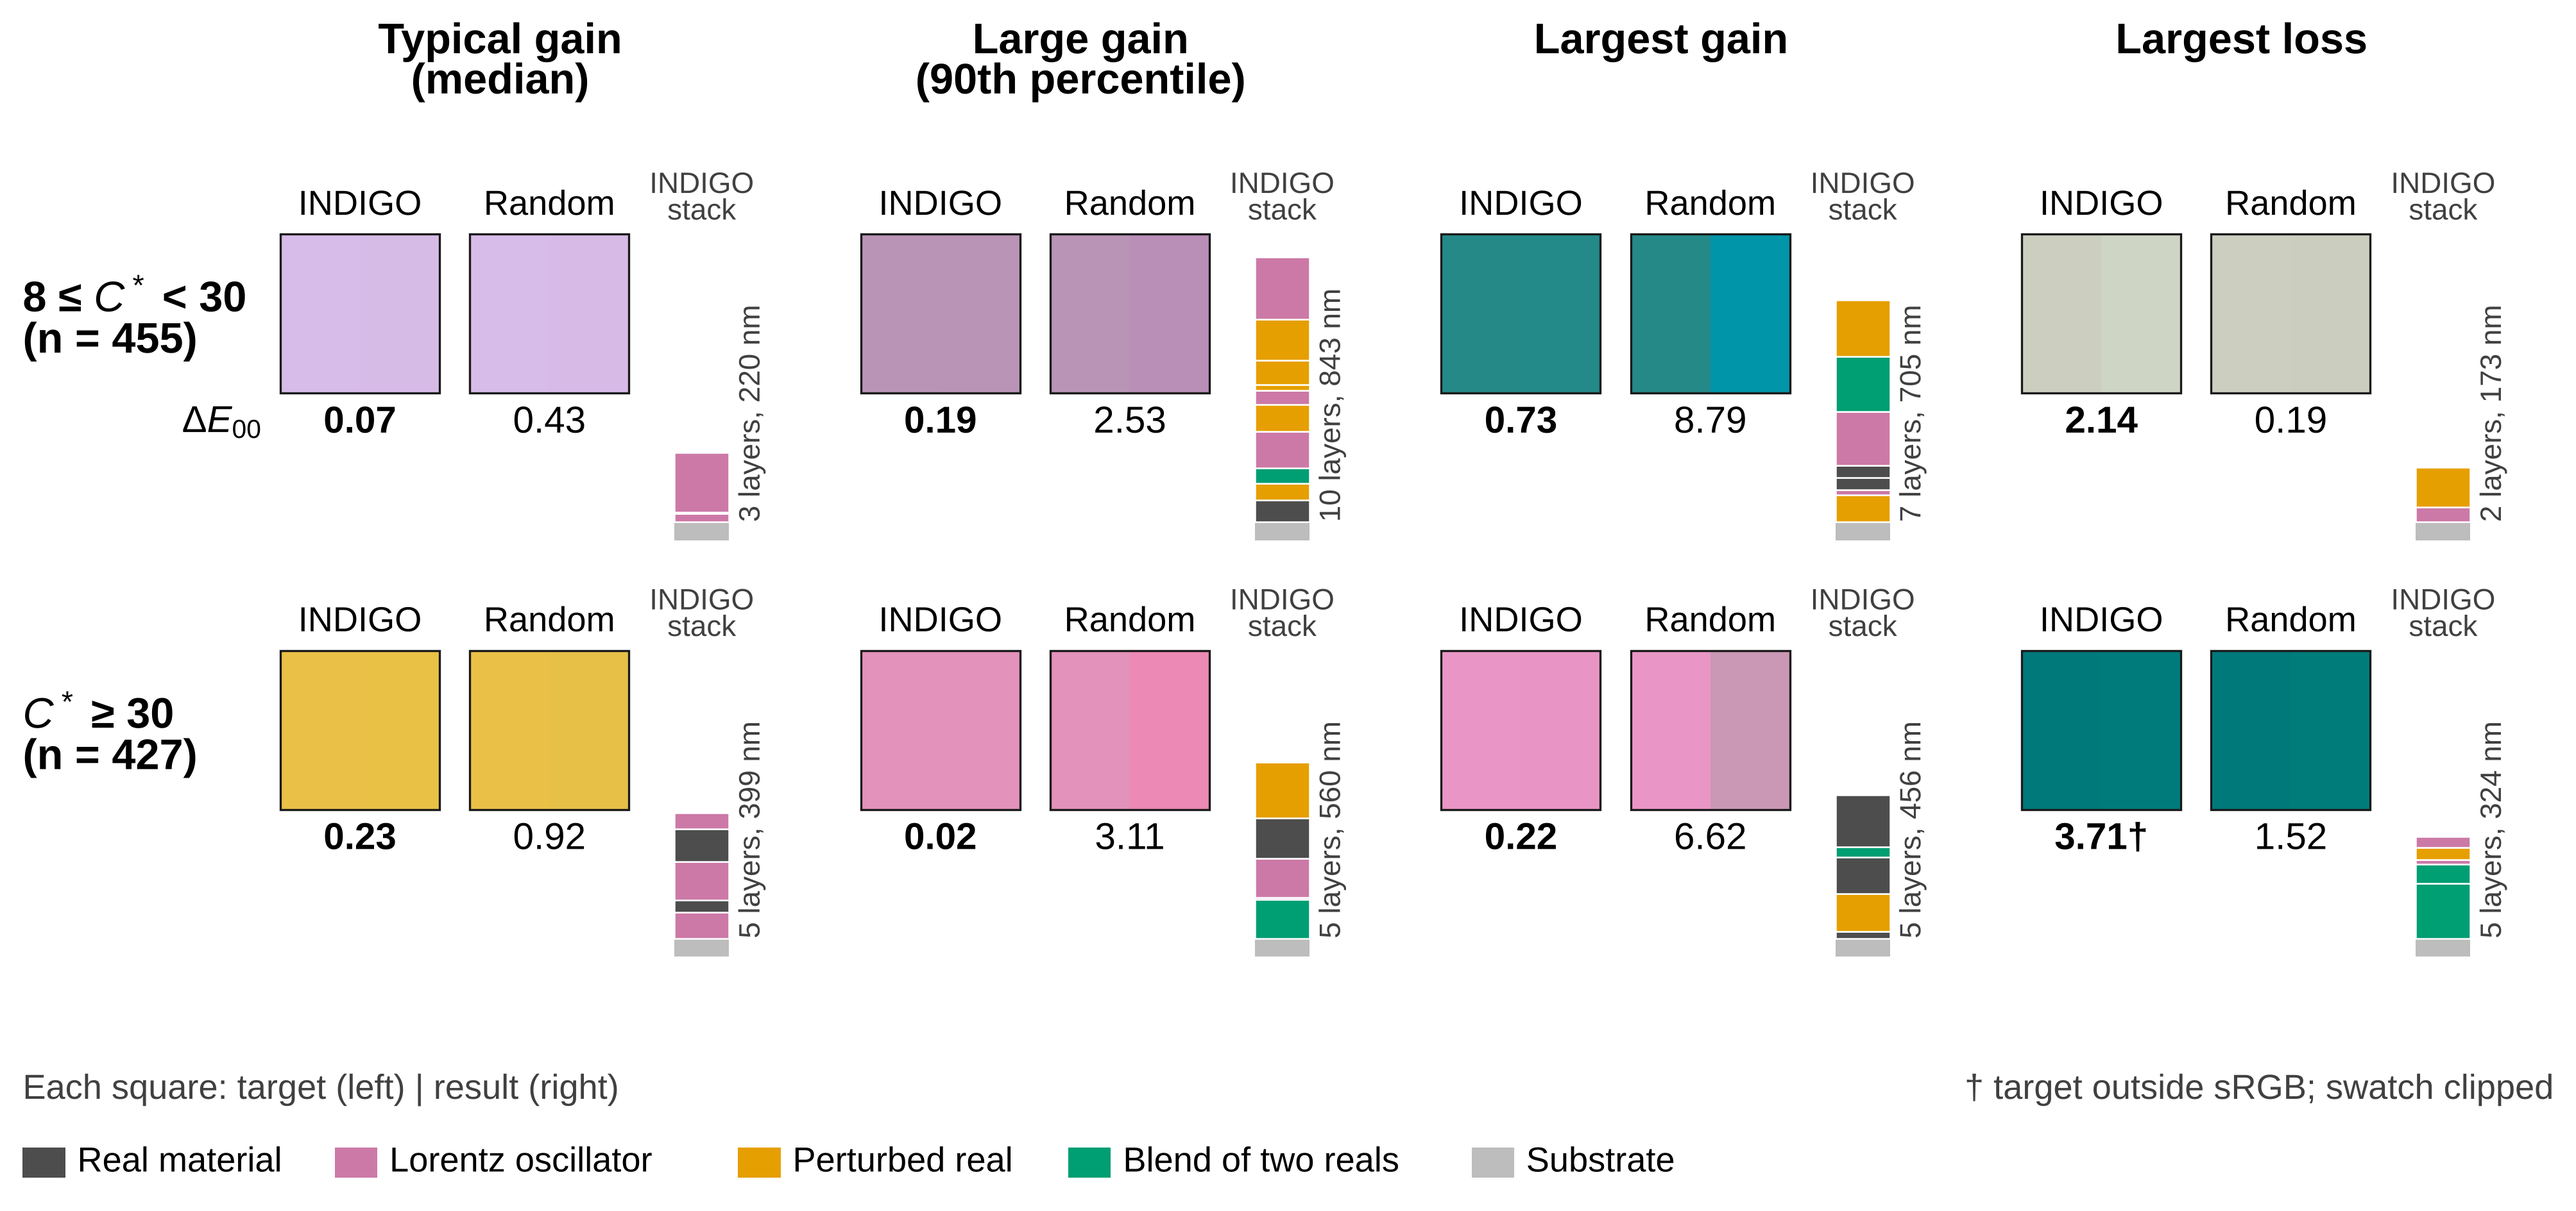
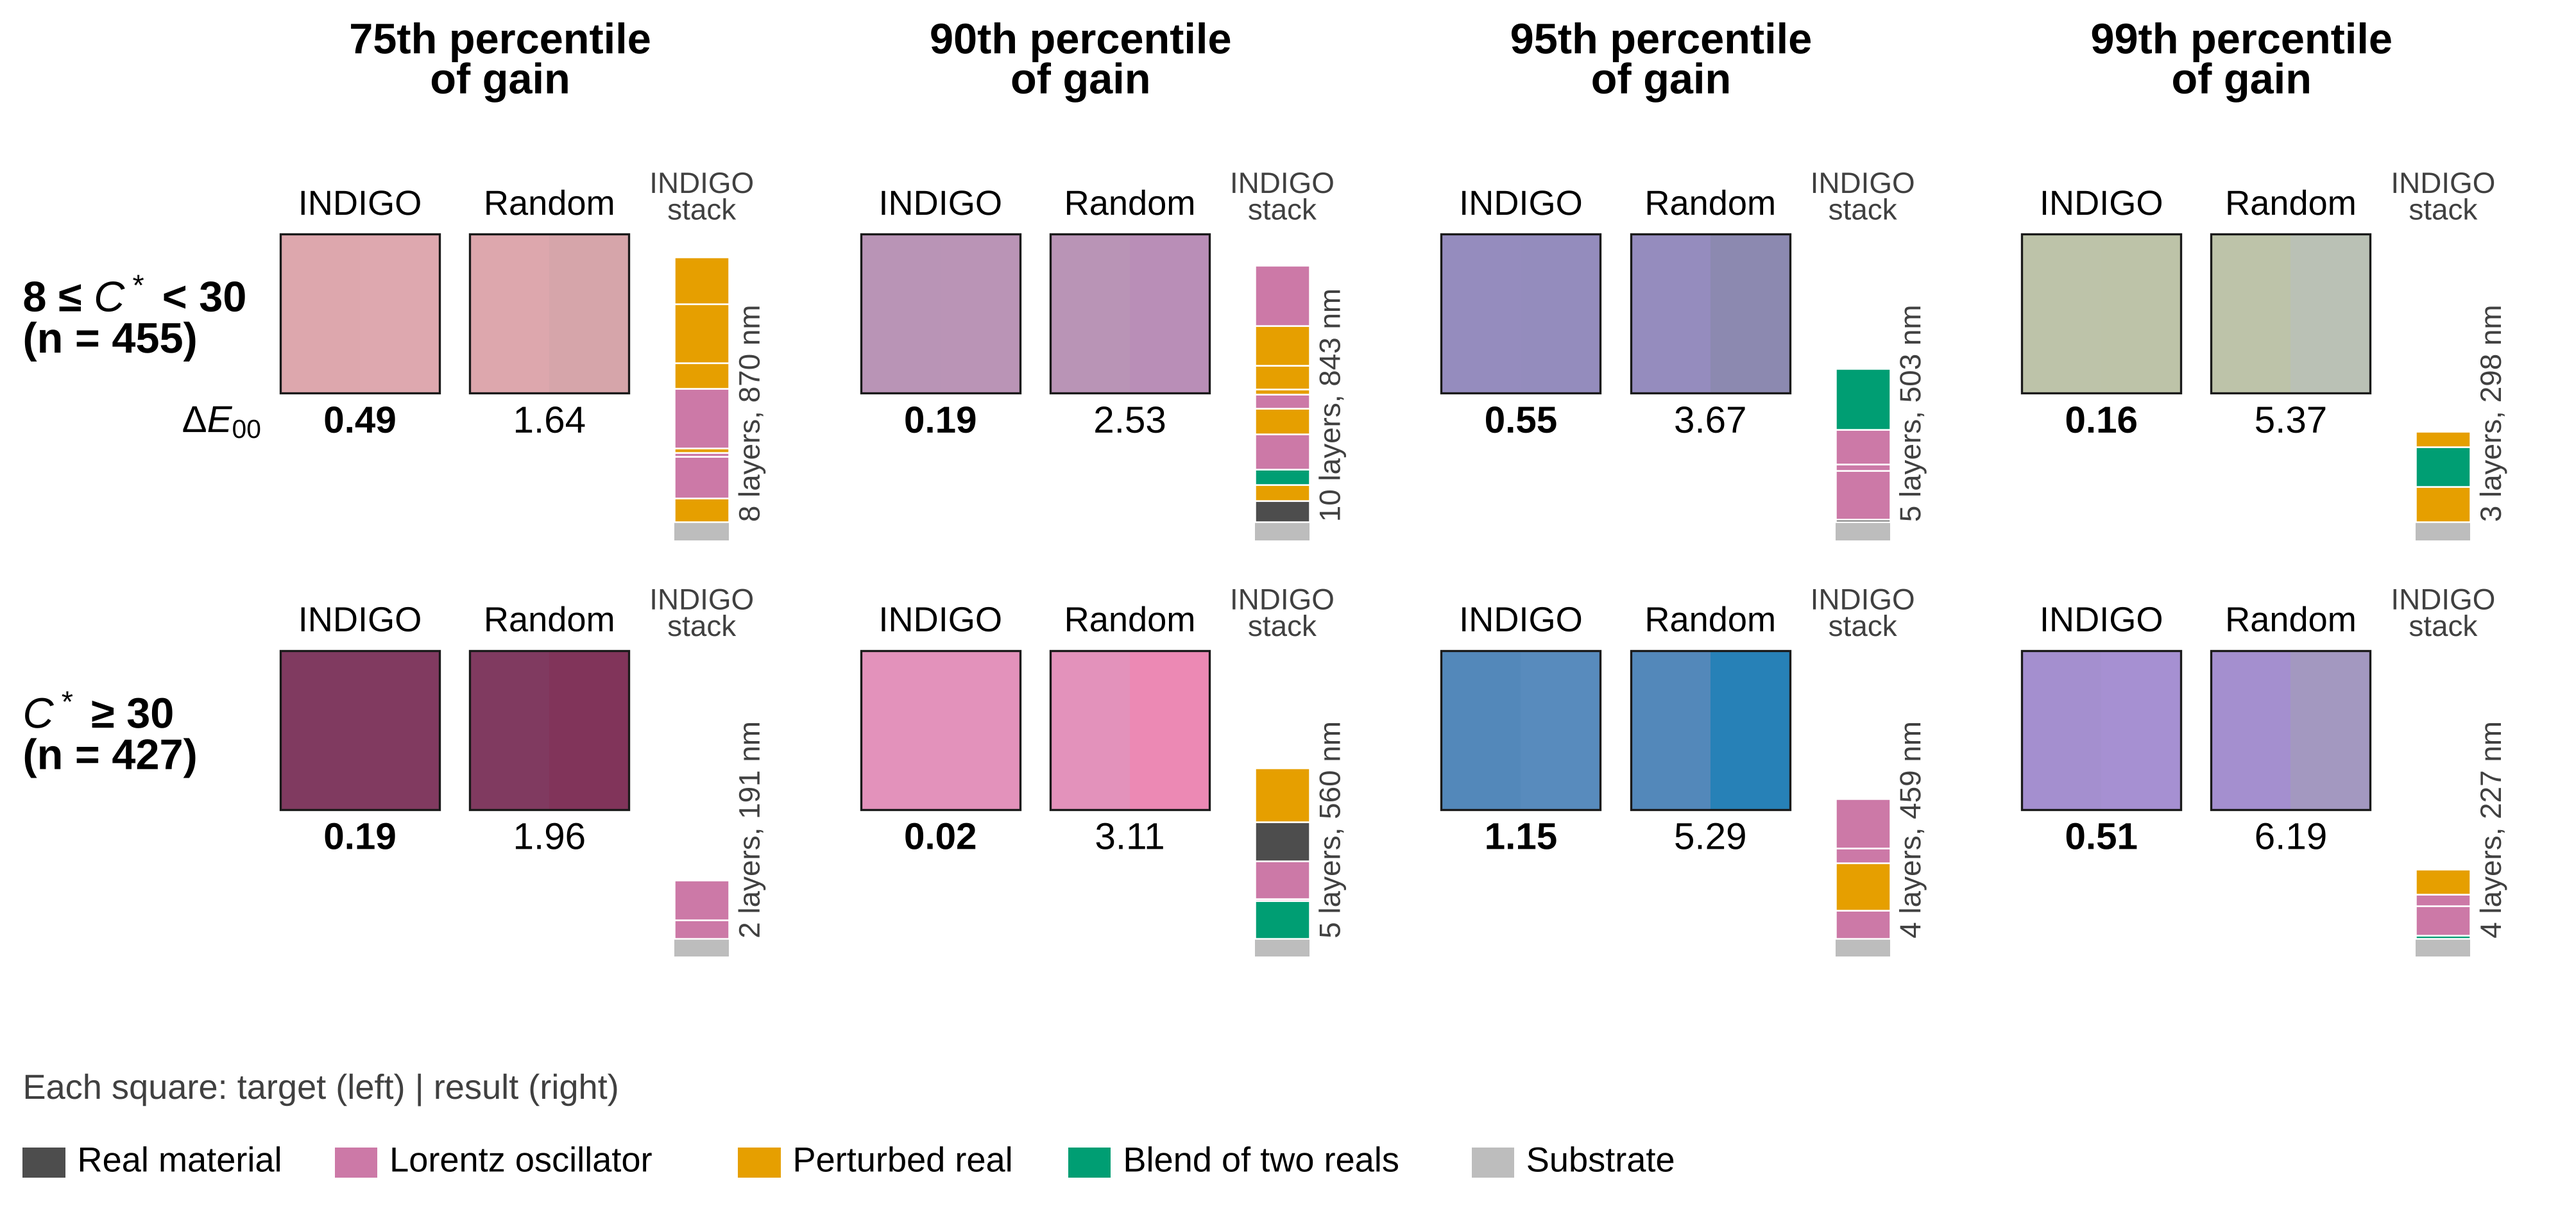
Fig 6: columns at the 75th, 90th, 95th, 99th percentile of gain
Claude-Session: https://claude.ai/code/session_01XG1CYUQ4Nn2RYcqixvqBTY

diff --git a/scripts/paper_figures/fig6_examples.py b/scripts/paper_figures/fig6_examples.py
@@ -6,10 +6,8 @@ and the target is a physical color (L* in [0, 100], C* <= 150; 10 of the
 1000 headline rows are not, see Fig. 2). For each of the two chromatic
 buckets (8 <= C* < 30 and C* >= 30), compute per target the gain
 g = DeltaE00(random) - DeltaE00(INDIGO), same row, same pool, same budget,
-and take the target whose g is closest to the median, the 90th percentile,
-the maximum (largest gain) and the minimum (largest loss: where random
-proposals did best relative to INDIGO). The last column is there so the
-figure shows the other side too.
+and take the target whose g is closest to each of GAIN_PERCENTILES
+(75th, 90th, 95th, 99th) of g in that bucket.
 
 Each example: two split swatches, target on the left half and the returned
 stack's color on the right, for INDIGO and for random proposals, each run's
@@ -29,8 +27,8 @@ from matplotlib.patches import Rectangle
 import _style as S
 import _runs as R
 
-COLUMNS = (("median", "Typical gain\n(median)"), ("p90", "Large gain\n(90th percentile)"),
-           ("max", "Largest gain"), ("min", "Largest loss"))
+GAIN_PERCENTILES = (75, 90, 95, 99)
+COLUMNS = tuple((p, f"{p}th percentile\nof gain") for p in GAIN_PERCENTILES)
 ROW_BUCKETS = ("8<=C<30", "C>=30")
 MODEL, BASE = "INDIGO", "random"
 TYPE_COL = {"real": "#4D4D4D", "lorentz": S.OI["purple"], "perturb": S.OI["orange"],
@@ -79,10 +77,8 @@ def pick(dm, db):
         ii = np.where((dm["bucket"] == b) & np.isfinite(gain) & phys)[0]
         g = gain[ii]
         pools[b] = len(ii)
-        targets = {"median": np.median(g), "p90": np.percentile(g, 90),
-                   "max": g.max(), "min": g.min()}
-        for k, v in targets.items():
-            out[(b, k)] = int(ii[np.argmin(np.abs(g - v))])
+        for p in GAIN_PERCENTILES:
+            out[(b, p)] = int(ii[np.argmin(np.abs(g - np.percentile(g, p)))])
     return out, pools
 
 
@@ -155,7 +151,7 @@ def main():
             tot = sum(L["thickness_nm"] for L in layers)
             ax.text(sx + sww + 0.06, sy, LABELS["layers"].format(n=len(layers), t=tot),
                     rotation=90, ha="left", va="bottom", fontsize=S.SMALL_PT - 1.5, color="#404040")
-            notes.append(f"{b} {ck}: tier {dm['tier'][i]} row {dm['idx'][i]} "
+            notes.append(f"{b} p{ck}: tier {dm['tier'][i]} row {dm['idx'][i]} "
                          f"(INDIGO {dm['de'][i]:.2f}, random {db['de'][i]:.2f})")
     # DeltaE label once, left of the first row's numbers
     ax.text(x0 - 0.12, y_top - 0.3 - sw - 0.08, LABELS["ylabel"], ha="right", va="top",
@@ -182,7 +178,7 @@ def main():
         "achieved_lab, delta_e, layers[].{material, thickness_nm}. Selection: per bucket "
         "(8<=C<30, C>=30), physical targets (L* 0-100, C* <= 150) where both runs returned a stack "
         f"(n = {pools['8<=C<30']}, {pools['C>=30']}), gain g = delta_e(random) - delta_e(INDIGO); "
-        "rows nearest median g, 90th percentile g, max g, min g. Chosen: " + "; ".join(notes) + ". Swatches are Lab -> sRGB "
+        f"rows nearest the {', '.join(map(str, GAIN_PERCENTILES))}th percentiles of g. Chosen: " + "; ".join(notes) + ". Swatches are Lab -> sRGB "
         "(D65), clipped; dagger = target outside sRGB. Material type from the layer name "
         "(lorentz_*, perturb_*, interp(...), else real).")
 

diff --git a/results/paper/figures/PROVENANCE.md b/results/paper/figures/PROVENANCE.md
@@ -7,5 +7,5 @@ One line per figure: script, inputs, fields.
 - **Fig 3** `scripts/paper_figures/fig3_architecture.py` -> `fig3_architecture.{pdf,png}`. Schematic. Sizes read at run time: src/materials_vocab.py {M_MAX=32, NUM_THICKNESSES=100, THICKNESSES 2-200 nm, VOCAB_SIZE=3201, MAX_LAYERS=10}, src/material_features.py NUM_LAMBDA=128, results/production/current/config.json {d_model=352, slot_encoder_layers=6, decoder_layers=1}. Structure from src/model.py FlexMaterialCrossAttn (shared MaterialEncoder, slot encoder with no slot positional embedding, decoder over [target Lab + pool size] + placed layers, per-slot thickness head + EOS head). Score patterns are illustrative.
 - **Fig 4** `scripts/paper_figures/fig4_headline.py` -> `fig4_headline.{pdf,png}`. (a) per-row `delta_e` from `results/paper_runs/{strong_random, budget50_model, strong_model}/**/tier_{a,b}/rows.json`, rows 0-499 per tier (n = 1000 per run), loaded with scripts/paper_numbers.py load_run/de_of; failed rows = inf; checked equal to headline.json pass rates. (b, c) `results/paper/headline.json` runs.<run>.tiers.{A+B.by_chroma.<bucket>, A.all, B.all}.pass_lt_1.{est, lo, hi} (95% bootstrap, 2000 draws). Runs: random N=250, INDIGO N=50, INDIGO N=250; top-k 10, 100 refinement steps, seed 42, checkpoint 4fd024434fcc0c02.
 - **Fig 5** `scripts/paper_figures/fig5_paired.py` -> `fig5_paired.{pdf,png}` (8.3 cm). Per-row `delta_e` and `target_lab` (chroma bucket) from `results/paper_runs/strong_random` (x) and `results/paper_runs/strong_model` (y), tiers A+B rows 0-499 each, paired by (tier, row_idx), loaded with paper_numbers.load_run; failed rows on the 'failed' band (5 random, 1 INDIGO). Caption number, not drawn: rows_better = headline.json comparisons['INDIGO - random']['A+B'].rows_better = 0.858 (recomputed and checked). Quadrant counts at DeltaE00 = 1 from the rows: both < 1 544, INDIGO only 377, random only 14, neither 65.
-- **Fig 6** `scripts/paper_figures/fig6_examples.py` -> `fig6_examples.{pdf,png}`. Rows `results/paper_runs/strong_model` (INDIGO, N=250) and `strong_random` (random, N=250), tiers A+B pooled, loaded with paper_numbers.load_run. Fields: target_lab, achieved_lab, delta_e, layers[].{material, thickness_nm}. Selection: per bucket (8<=C<30, C>=30), physical targets (L* 0-100, C* <= 150) where both runs returned a stack (n = 455, 427), gain g = delta_e(random) - delta_e(INDIGO); rows nearest median g, 90th percentile g, max g, min g. Chosen: 8<=C<30 median: tier A row 77 (INDIGO 0.07, random 0.43); 8<=C<30 p90: tier B row 230 (INDIGO 0.19, random 2.53); 8<=C<30 max: tier B row 413 (INDIGO 0.73, random 8.79); 8<=C<30 min: tier B row 128 (INDIGO 2.14, random 0.19); C>=30 median: tier A row 422 (INDIGO 0.23, random 0.92); C>=30 p90: tier A row 245 (INDIGO 0.02, random 3.11); C>=30 max: tier B row 246 (INDIGO 0.22, random 6.62); C>=30 min: tier B row 211 (INDIGO 3.71, random 1.52). Swatches are Lab -> sRGB (D65), clipped; dagger = target outside sRGB. Material type from the layer name (lorentz_*, perturb_*, interp(...), else real).
+- **Fig 6** `scripts/paper_figures/fig6_examples.py` -> `fig6_examples.{pdf,png}`. Rows `results/paper_runs/strong_model` (INDIGO, N=250) and `strong_random` (random, N=250), tiers A+B pooled, loaded with paper_numbers.load_run. Fields: target_lab, achieved_lab, delta_e, layers[].{material, thickness_nm}. Selection: per bucket (8<=C<30, C>=30), physical targets (L* 0-100, C* <= 150) where both runs returned a stack (n = 455, 427), gain g = delta_e(random) - delta_e(INDIGO); rows nearest the 75, 90, 95, 99th percentiles of g. Chosen: 8<=C<30 p75: tier A row 241 (INDIGO 0.49, random 1.64); 8<=C<30 p90: tier B row 230 (INDIGO 0.19, random 2.53); 8<=C<30 p95: tier B row 68 (INDIGO 0.55, random 3.67); 8<=C<30 p99: tier B row 161 (INDIGO 0.16, random 5.37); C>=30 p75: tier A row 121 (INDIGO 0.19, random 1.96); C>=30 p90: tier A row 245 (INDIGO 0.02, random 3.11); C>=30 p95: tier B row 484 (INDIGO 1.15, random 5.29); C>=30 p99: tier A row 464 (INDIGO 0.51, random 6.19). Swatches are Lab -> sRGB (D65), clipped; dagger = target outside sRGB. Material type from the layer name (lorentz_*, perturb_*, interp(...), else real).
 - **Fig 8** `scripts/paper_figures/fig8_scaling.py` -> `fig8_scaling.{pdf,png}`. Points/curves: `analyses/scaling/results/tuned/isoflop_tuned.json` runs[].{n_params, flops, passes, val_de.pooled} (55 runs, 6 budgets; top budget minimum on edge, excluded). Exponent label: `porian_fit_tuned.json` by_metric.pooled.laws.N_star.{exponent, ci_low, ci_high} = 0.64 [0.46, 0.85], 5 usable budgets; curves/band recomputed with src.scaling.porian (bootstrap seed 0), checked against the JSON exponent.
